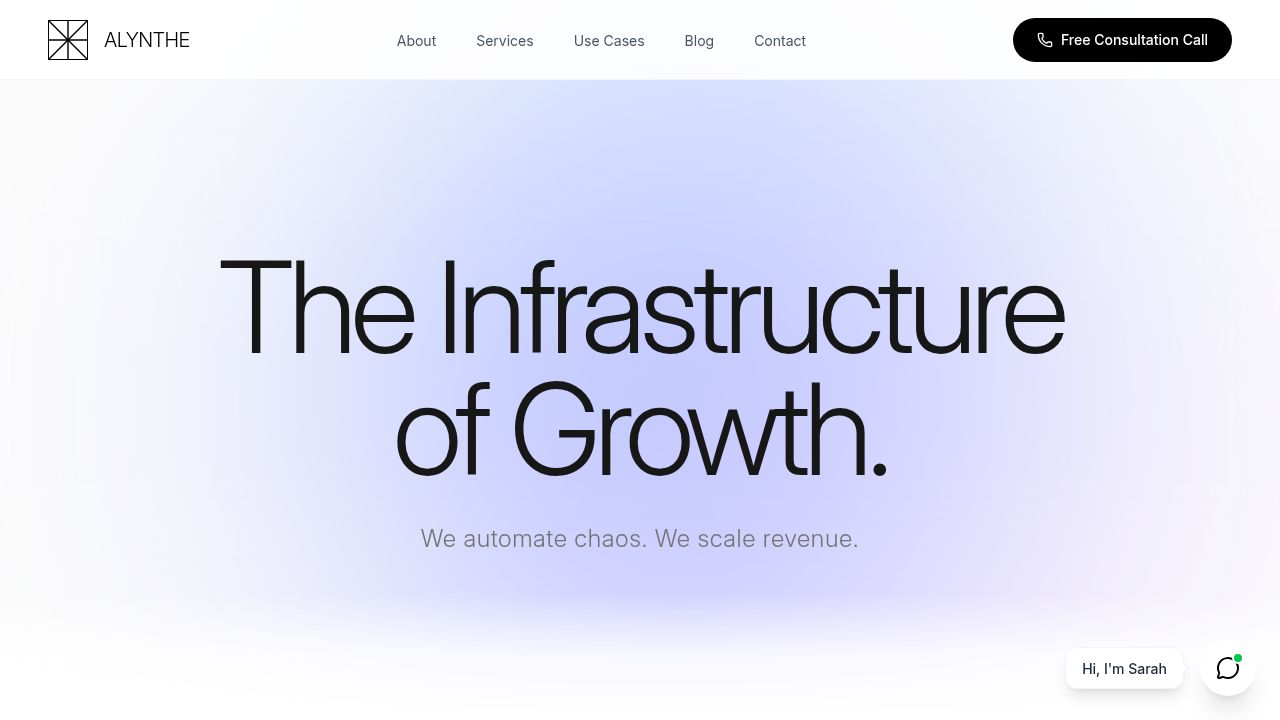
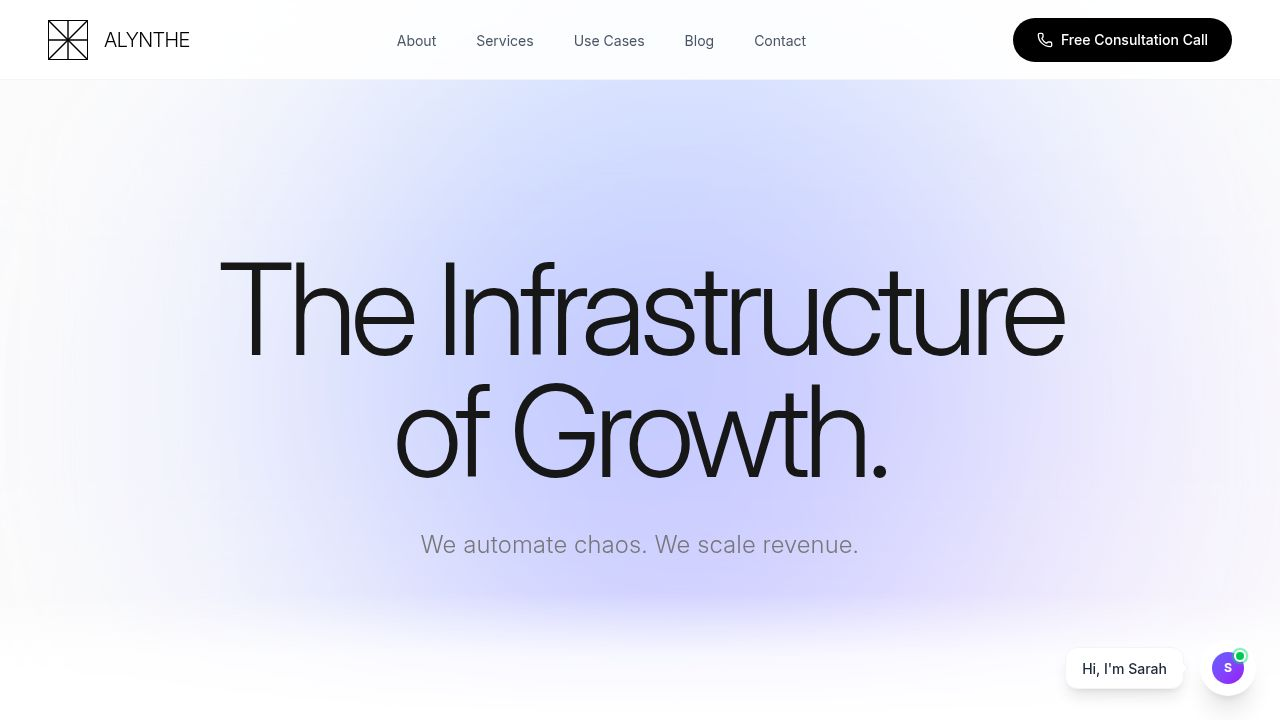
Update contact form to send HTML emails and enhance chat launcher
Update contact form email to HTML format with specific content and add a pulsing status dot and avatar to the chat launcher.

Replit-Commit-Author: Agent
Replit-Commit-Session-Id: b2e82653-4e55-471f-8107-0bf9db49501e
Replit-Commit-Checkpoint-Type: full_checkpoint
Replit-Commit-Event-Id: ed81ab0b-bb57-4c59-912e-e3086ca38784
Replit-Commit-Screenshot-Url: https://storage.googleapis.com/screenshot-production-us-central1/676f23e3-63f4-4cf5-9c40-162f35f686a6/b2e82653-4e55-471f-8107-0bf9db49501e/6BD4Y1v
Replit-Helium-Checkpoint-Created: true

diff --git a/server/routes.ts b/server/routes.ts
@@ -13,17 +13,48 @@ async function sendWelcomeEmail(name: string, email: string) {
     await resend.emails.send({
       from: "Alynthe <onboarding@resend.dev>",
       to: email,
-      subject: "Transmission Received: Alynthe Inquiry",
-      text: `Hello ${name},
-
-Your inquiry has been logged in our system.
-
-You are currently speaking with Sarah, our AI Associate. If you disconnect or require higher-level architectural guidance, a human partner from our Indianapolis operations team will review your brief and contact you shortly.
-
-No further action is required at this moment.
-
-Regards,
-The Alynthe Team`
+      subject: "Transmission Received: Welcome to Alynthe.",
+      html: `
+<!DOCTYPE html>
+<html>
+<head>
+  <meta charset="utf-8">
+  <meta name="viewport" content="width=device-width, initial-scale=1.0">
+</head>
+<body style="margin: 0; padding: 0; font-family: -apple-system, BlinkMacSystemFont, 'Segoe UI', Roboto, sans-serif; background-color: #fafafa;">
+  <div style="max-width: 600px; margin: 0 auto; padding: 40px 20px;">
+    <div style="background-color: #ffffff; border-radius: 8px; padding: 48px; border: 1px solid #e5e7eb;">
+      <h1 style="margin: 0 0 24px 0; font-size: 28px; font-weight: 600; color: #111827; letter-spacing: -0.5px;">
+        We have your coordinates.
+      </h1>
+      
+      <p style="margin: 0 0 20px 0; font-size: 16px; line-height: 1.7; color: #4b5563;">
+        Hello ${name},
+      </p>
+      
+      <p style="margin: 0 0 20px 0; font-size: 16px; line-height: 1.7; color: #4b5563;">
+        Thank you for initiating contact. Your project details have been securely logged in our intake system.
+      </p>
+      
+      <p style="margin: 0 0 20px 0; font-size: 16px; line-height: 1.7; color: #4b5563;">
+        We are not a faceless offshore firm. We are proud to be an <strong>American-built agency</strong>, engineered right here in the Midwest (Indianapolis). We believe in hard work & honesty.
+      </p>
+      
+      <p style="margin: 0 0 32px 0; font-size: 16px; line-height: 1.7; color: #4b5563;">
+        A Strategist will review your brief and deploy a response within <strong>24 hours</strong>.
+      </p>
+      
+      <div style="border-top: 1px solid #e5e7eb; padding-top: 32px; margin-top: 32px;">
+        <p style="margin: 0; font-size: 14px; color: #9ca3af; line-height: 1.6;">
+          <strong style="color: #111827;">Alynthe</strong> | The Infrastructure of Growth<br>
+          1438 Spann Ave, Indianapolis, IN 46203
+        </p>
+      </div>
+    </div>
+  </div>
+</body>
+</html>
+      `
     });
     console.log(`Welcome email sent to ${email}`);
   } catch (error) {

diff --git a/client/src/components/ui/Chatbot.tsx b/client/src/components/ui/Chatbot.tsx
@@ -388,8 +388,15 @@ export function Chatbot() {
             <X className="w-6 h-6 text-white" />
           ) : (
             <div className="relative">
-              <div className="absolute -top-1 -right-1 w-3 h-3 bg-green-500 rounded-full border-2 border-white"></div>
-               <MessageCircle className="w-6 h-6 text-black" />
+              <div className="w-8 h-8 rounded-full bg-gradient-to-br from-indigo-500 to-purple-600 flex items-center justify-center">
+                <span className="text-white text-xs font-bold">S</span>
+              </div>
+              <div className="absolute -top-0.5 -right-0.5">
+                <span className="relative flex h-3 w-3">
+                  <span className="animate-ping absolute inline-flex h-full w-full rounded-full bg-green-400 opacity-75"></span>
+                  <span className="relative inline-flex rounded-full h-3 w-3 bg-green-500 border-2 border-white"></span>
+                </span>
+              </div>
             </div>
           )}
         </button>
